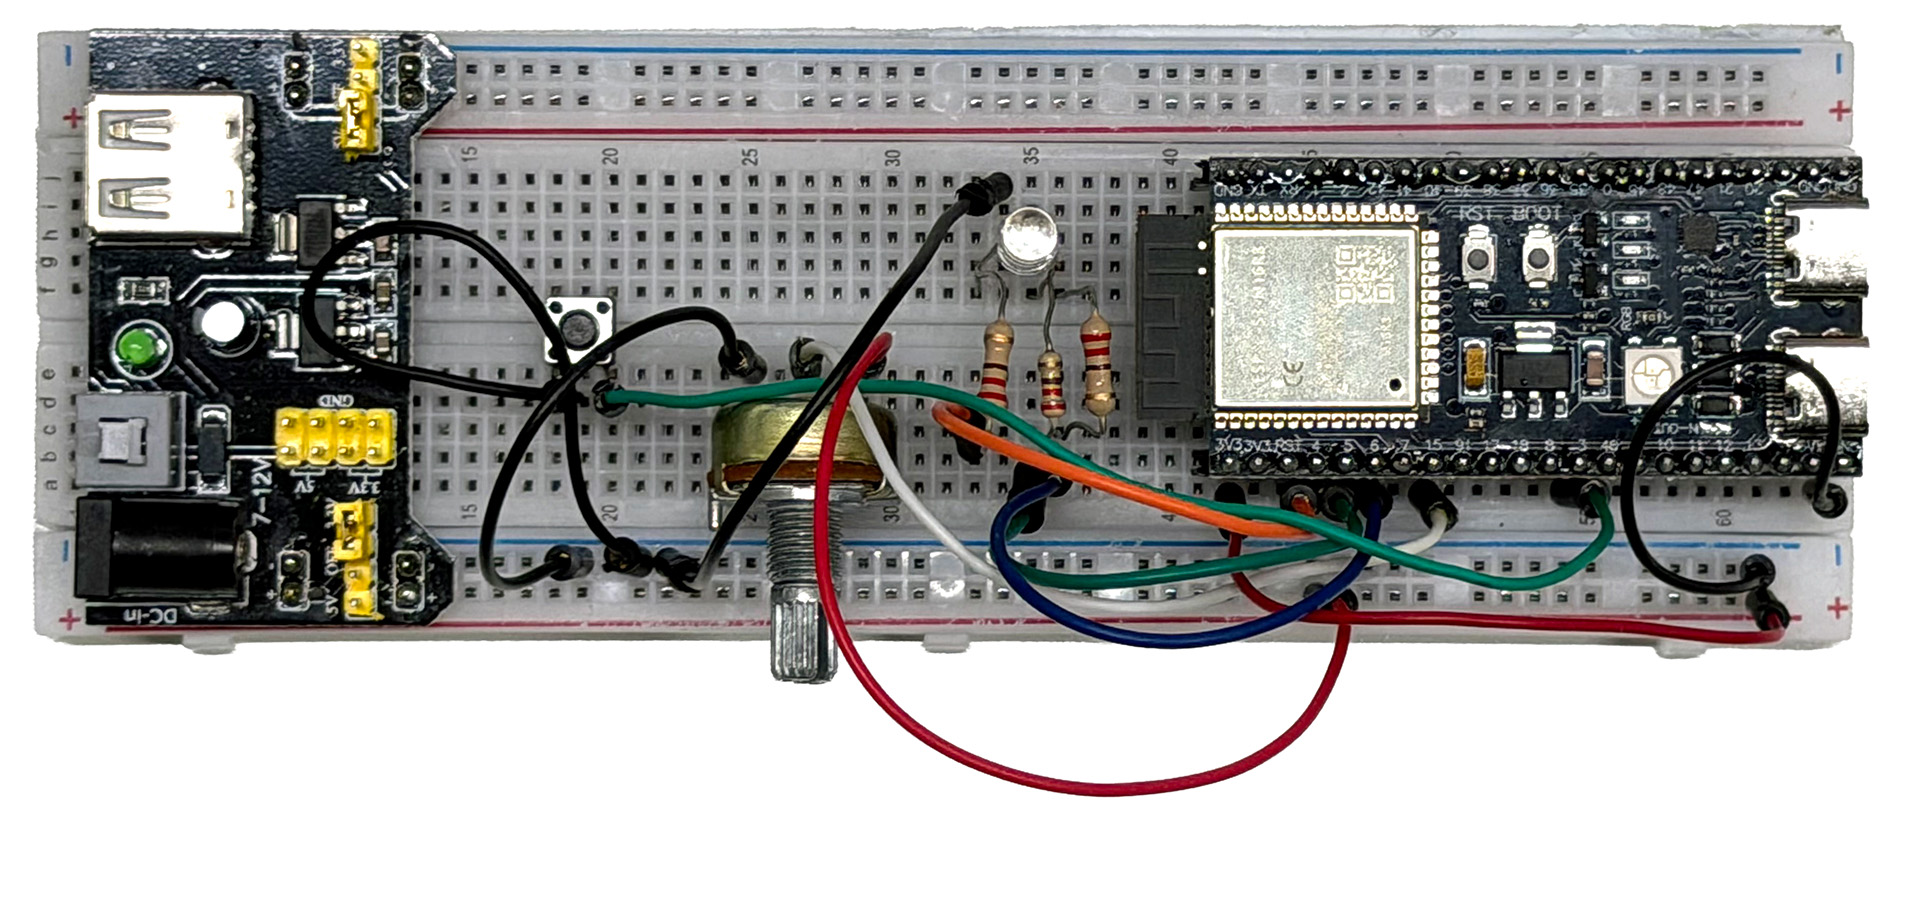
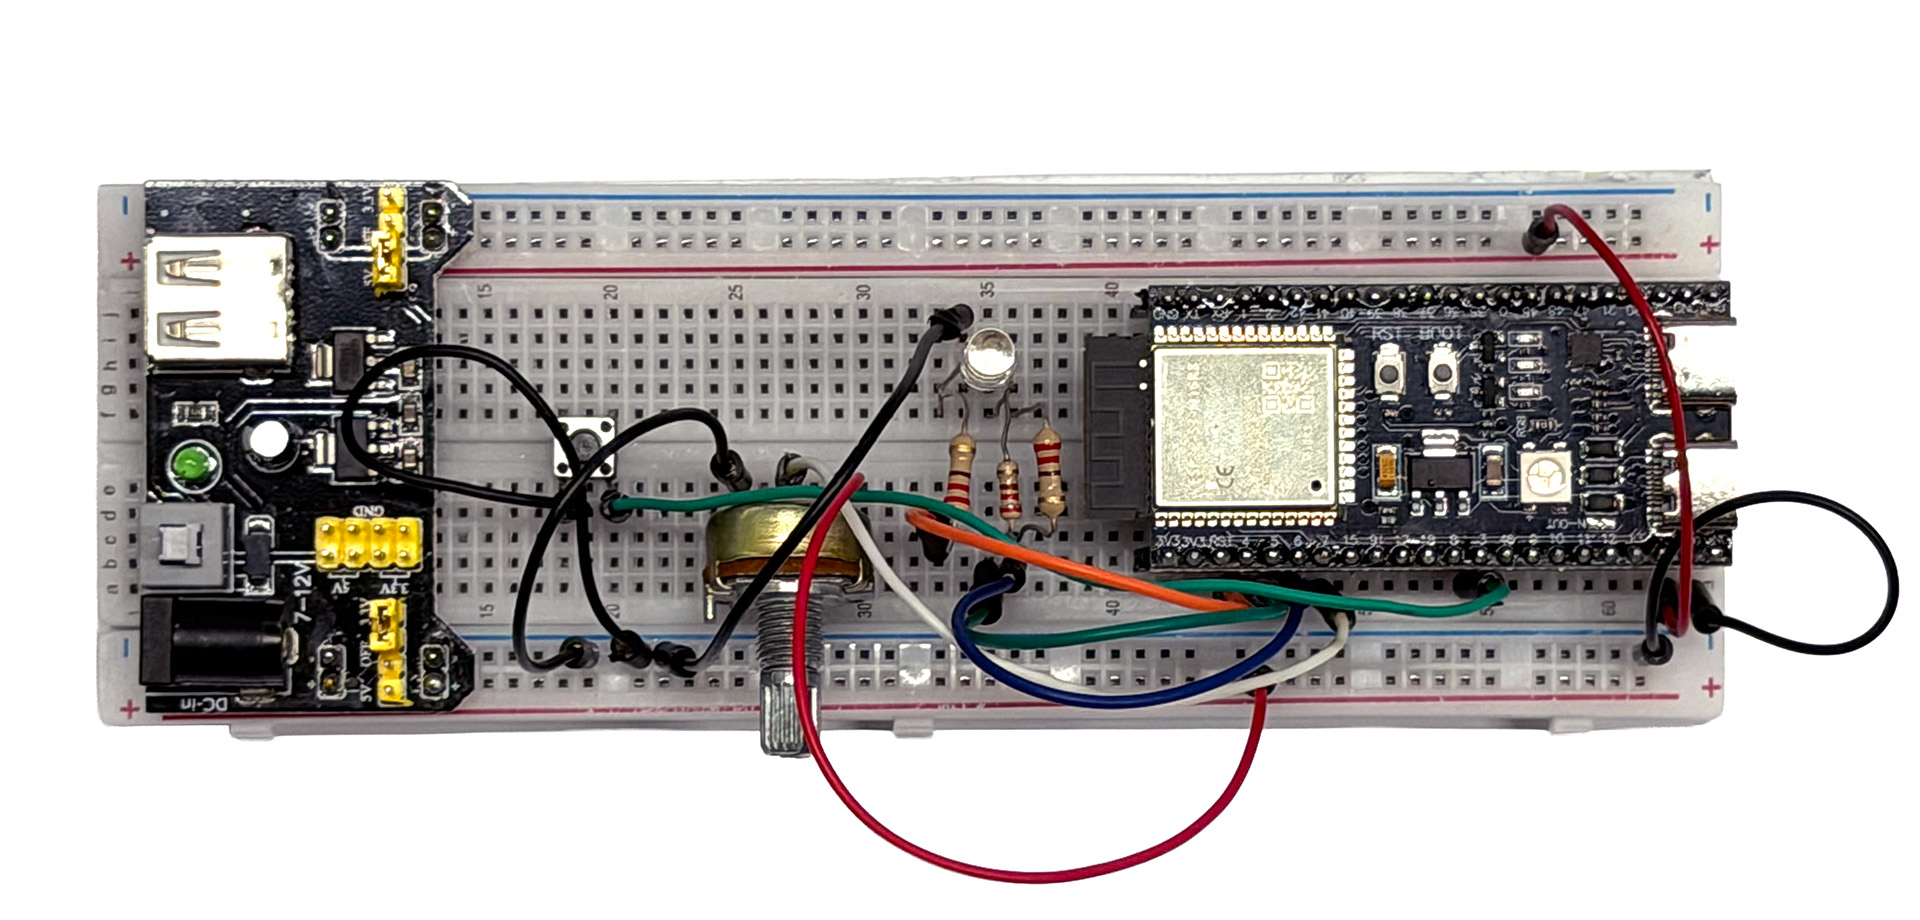
Servo + ultrasonic

diff --git a/esp32/README.md b/esp32/README.md
@@ -1345,9 +1345,9 @@ Finally, combine both the RGB Led control and potentiometer reading examples int
 
 ## Using 5V components with the ESP32
 
-The ESP32 works on 3.3V logic levels, while many common components (like servos, motors, etc) work on 5V logic levels. Connecting a 5V component directly to the ESP32 will not work properly, and can even damage your board.
+The ESP32 works on 3.3V logic levels, while many common components (like servos, ultrasonic sensors, etc) work on 5V logic levels. Connecting a 5V component directly to the ESP32 will not work properly, and can even damage your board.
 
-To safely use 5V components with the ESP32, you can use a power module that provides both a 5V (to power 5V components) and 3.3V (which we can use to power the ESP32 itself) output. If you take a closer look to the power module, you'll see that there are output voltage pins on both sides of the module, together with jumper pins to select which voltage to output on those pins.
+To safely use 5V components with the ESP32, you can use a power module such as the MB102 power module that provides both a 5V (to power 5V components) and 3.3V (which we can use to power the ESP32 itself) output. If you take a closer look to the power module, you'll see that there are output voltage pins on both sides of the module, together with jumper pins to select which voltage to output on those pins.
 
 Before hooking it up, make sure to set both jumpers to the OFF position, like you see in the image below:
 
@@ -1355,11 +1355,46 @@ Before hooking it up, make sure to set both jumpers to the OFF position, like yo
 
 We'll use one side of our breadboard to work with 5V and the other side to work with 3.3V. It'll be crucial to keep these two voltage levels separated, to prevent damage to your board.
 
-In the image below, we've hooked up the power module to the breadboard, and connected the ESP32 power and ground to the bottom rails of the breadboard. On the power module, we used the jumpers to set the bottom rail to 3.3V, and the top rail to 5V:
+In the image below, we've hooked up the power module to the breadboard:
+
+- On the power module, we used the jumpers to set the bottom rail to 3.3V, and the top rail to 5V:
+- There is a wire connecting the 5V+ on the top rail of the breadboard to the 5Vin pin of the ESP32.
+- There is a wire connecting the GND on the bottom rail of the breadboard to the GND pin of the ESP32.
 
 ![ESP32 with power module on breadboard](images/esp32-power-module-with-esp.jpg)
 
 If you now plug in the power module to a 12V DC adapter, you should see the ESP32 power up correctly, even without USB power. You should be able to run the BLE RGB Led sketch as before, without any wired connection between your computer and the ESP32!
+
+### Servo motor
+
+A servo motor is a motor that can be controlled to move to a specific angle. It usually has three wires: power (5V), ground, and signal (control).
+
+Hooking it up is pretty straightforward:
+- Connect the power wire (usually red) to the 5V rail on your breadboard
+- Connect the ground wire (usually black or brown) to the GND rail on your breadboard
+- Connect the signal wire (usually yellow, orange or white) to a PWM-capable pin on the ESP32 (for example pin 17)
+
+![ESP32 with servo motor on breadboard](images/esp32-servo.png)
+
+To control it from your Arduino sketch, you can use the ESP32Servo library. Install it via the Arduino Library Manager.
+
+Open up the `File > Examples > ESP32Servo > Sweep` example, and change the pin number to the one you used for the signal wire. Upload the sketch, and you should see the servo sweeping back and forth.
+
+### Ultrasonic sensor
+
+Another intereseting sensor - that does require 5V power - is the ultrasonic distance sensor. It can measure distances by sending out an ultrasonic pulse and measuring the time it takes for the echo to return.
+
+One of the most common ultrasonic sensors is the HC-SR04. It has four pins: VCC (5V), GND, Trig (trigger), and Echo.
+
+![HC-SR04 ultrasonic sensor](images/hc-sr04.jpg)
+
+Hooking it up is also straightforward:
+- Connect the VCC pin to the 5V rail on your breadboard
+- Connect the GND pin to the GND rail on your breadboard
+- Connect the Trig pin to a digital pin on the ESP32 (for example pin 13)
+- Connect the Echo pin to another digital pin on the ESP32 (for example pin 12)
+
+Install the NewPing library via the Arduino Library Manager, and open up the `File > Examples > NewPing > NewPingExample` example. Change the pin numbers to match your wiring, upload the sketch, and open the Serial Monitor. You should see distance measurements being printed out.
 
 ## Components to test
 
